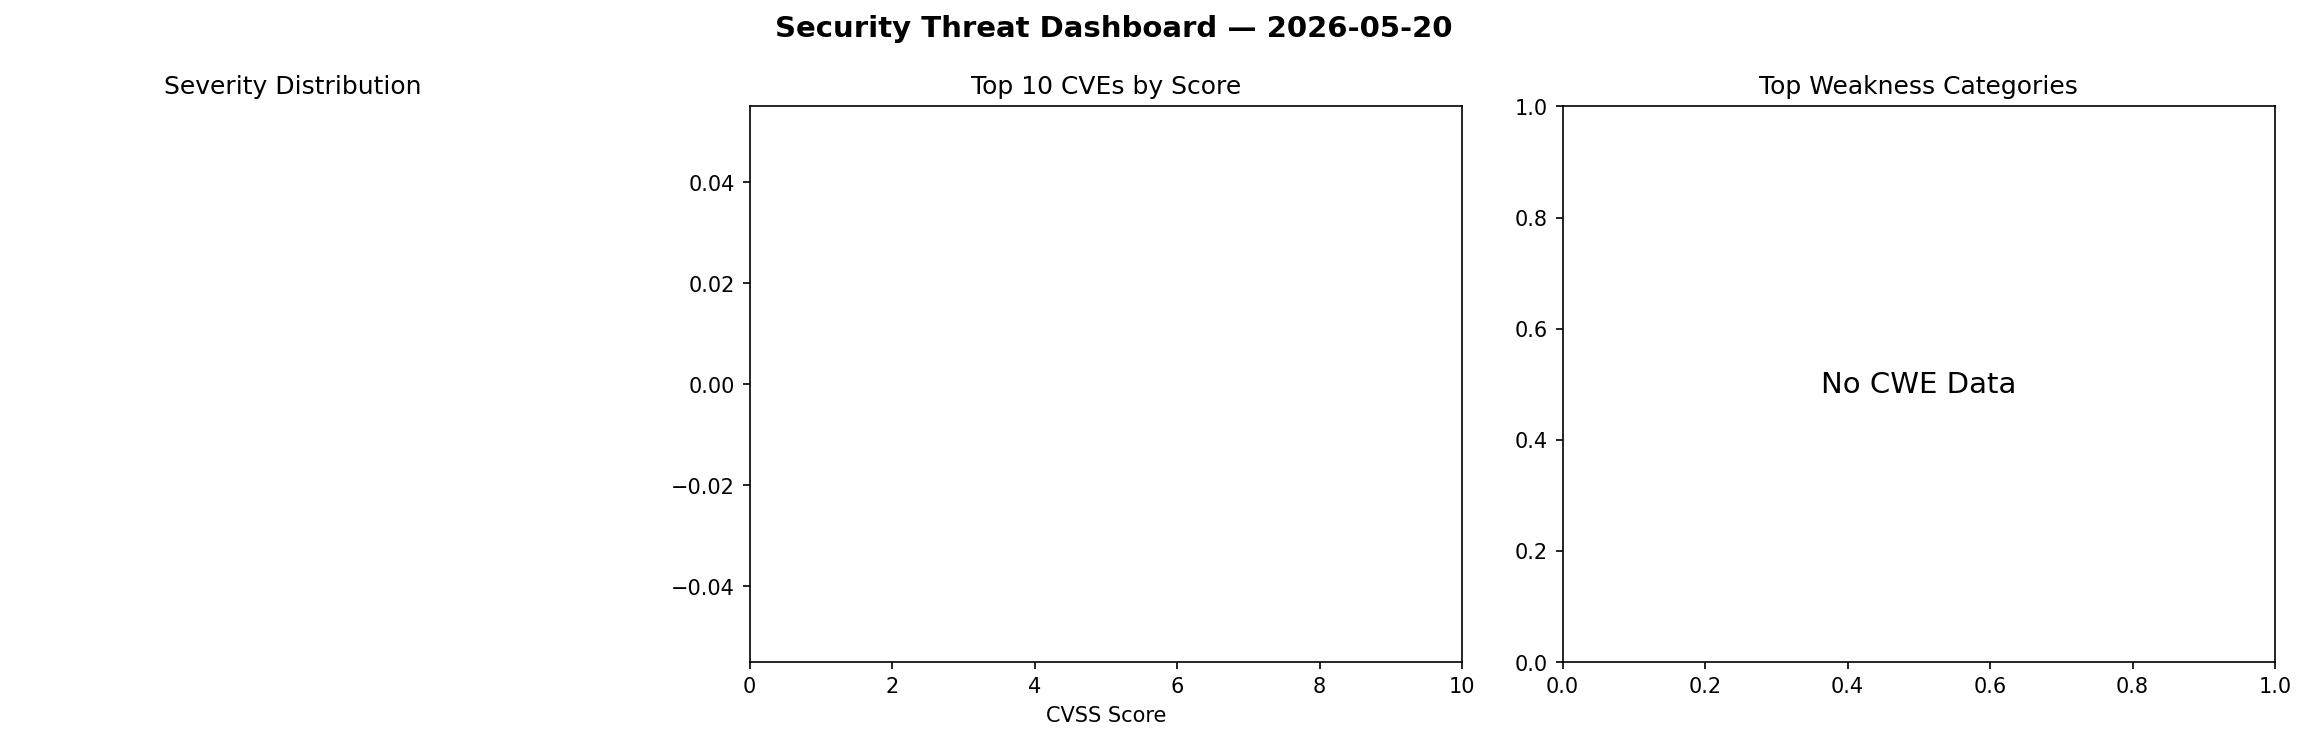
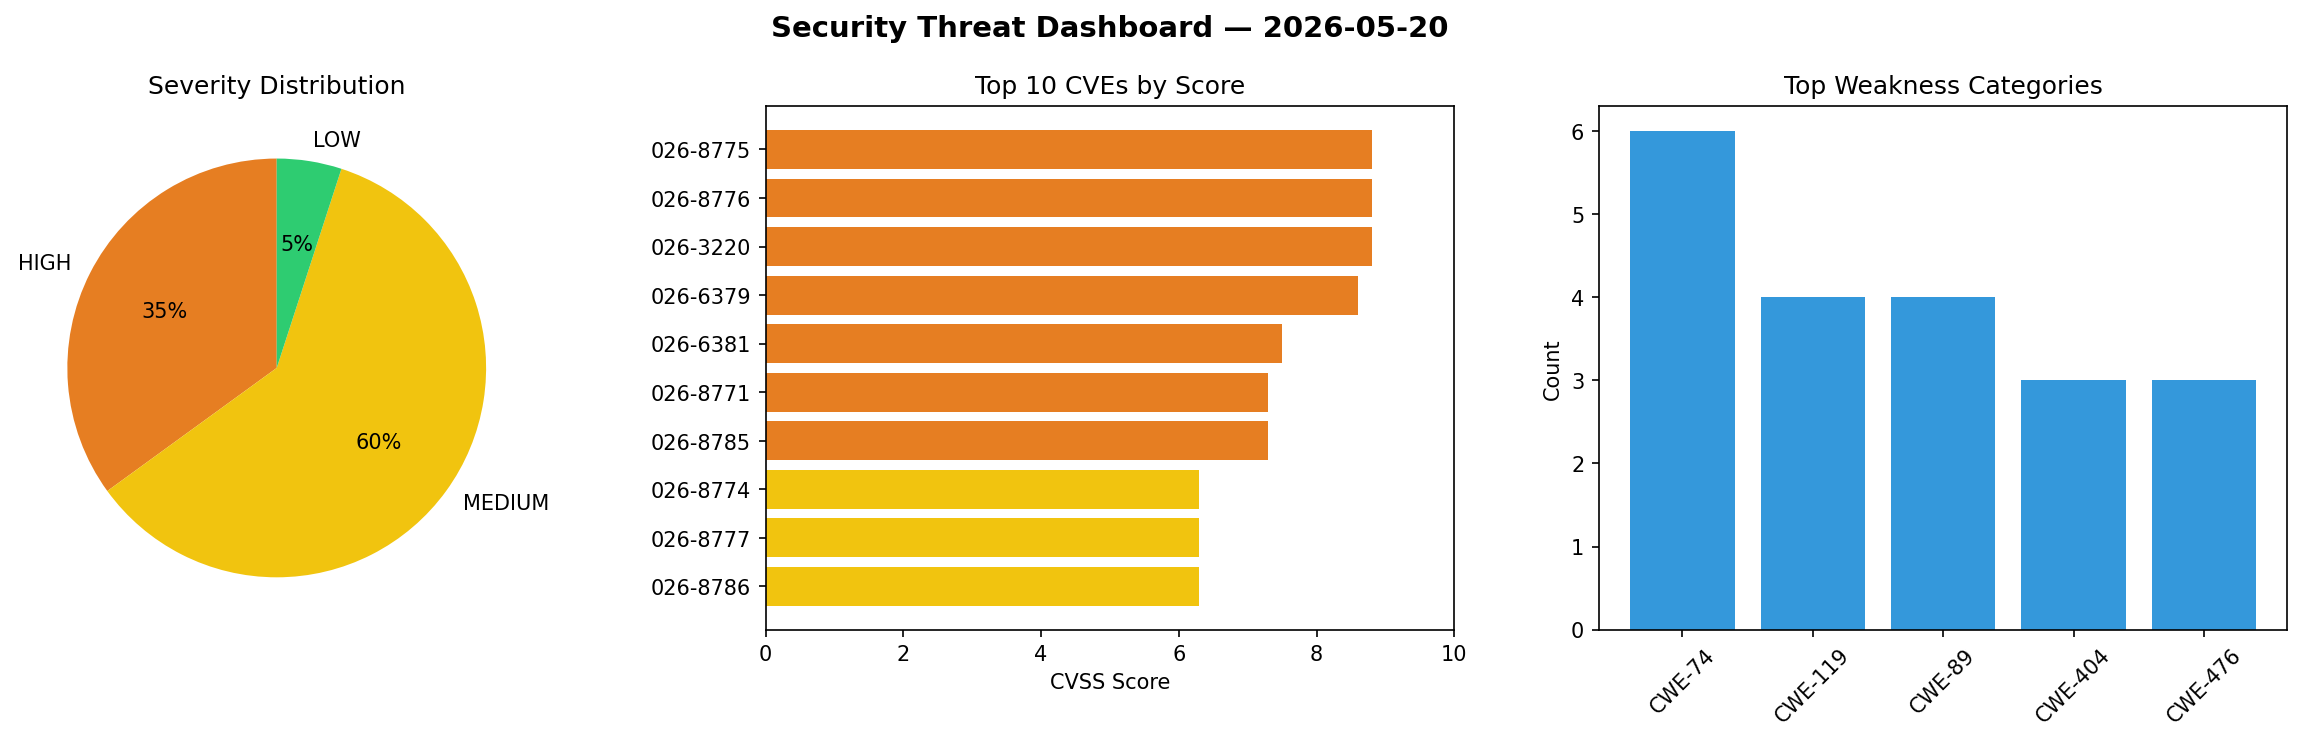
daily-experiments: security scan 2026-05-20T22:07

diff --git a/logs/2026-05-20.md b/logs/2026-05-20.md
@@ -1,6 +1,6 @@
 # Security Scan Report — 2026-05-20
 
-**Scan ID:** `b793f03480` | **CVEs:** 0 | **Threat Index:** 0
+**Scan ID:** `60e76fdcd3` | **CVEs:** 20 | **Threat Index:** 293.4
 
 ![Dashboard](2026-05-20_dashboard.png)
 
@@ -10,18 +10,46 @@
 
 | Metric | Value |
 |--------|-------|
-| Threat Index | 0 |
+| Threat Index | 293.4 |
 | Critical CVEs | 0 |
+| HIGH | 7 |
+| MEDIUM | 12 |
+| LOW | 1 |
 
 ## Delta vs Yesterday
 
 | Metric | Today | Yesterday | Change |
 |--------|-------|-----------|--------|
-| total_cves | 0 | 20 | 📉 -100.0% |
-| threat_index | 0 | 237.7 | 📉 -100.0% |
+| total_cves | 20 | 20 | ➡️ 0.0% |
+| threat_index | 293.4 | 237.7 | 📈 23.4% |
 | critical_count | 0 | 0 | ➡️ 0% |
+
+## Top Weakness Categories
+
+| CWE | Count |
+|-----|-------|
+| CWE-74 | 6 |
+| CWE-119 | 4 |
+| CWE-89 | 4 |
+| CWE-404 | 3 |
+| CWE-476 | 3 |
 
 ## CVE Details
 
 | CVE ID | Score | Severity | Description |
 |--------|-------|----------|-------------|
+| CVE-2026-8775 | 8.8 | HIGH | A flaw has been found in Edimax BR-6428NS 1.10. This affects the function formL2... |
+| CVE-2026-8776 | 8.8 | HIGH | A vulnerability has been found in Edimax BR-6428NS 1.10. This vulnerability affe... |
+| CVE-2026-3220 | 8.8 | HIGH | The Autoptimize WordPress plugin before 3.1.15, Clearfy Cache  WordPress plugin ... |
+| CVE-2026-6379 | 8.6 | HIGH | The WP Photo Album Plus WordPress plugin before 9.1.11.001 does not properly san... |
+| CVE-2026-6381 | 7.5 | HIGH | The WP Maps  WordPress plugin before 4.9.3 does not properly sanitize a paramete... |
+| CVE-2026-8771 | 7.3 | HIGH | A security flaw has been discovered in linlinjava litemall up to 1.8.0. This imp... |
+| CVE-2026-8785 | 7.3 | HIGH | A flaw has been found in projectworlds hospital-management-system-in-php 1.0. Af... |
+| CVE-2026-8774 | 6.3 | MEDIUM | A vulnerability was detected in Edimax BR-6228NC 1.22. Affected by this issue is... |
+| CVE-2026-8777 | 6.3 | MEDIUM | A vulnerability was found in Edimax BR-6428NS 1.10. This issue affects the funct... |
+| CVE-2026-8786 | 6.3 | MEDIUM | A vulnerability has been found in Tencent WeKnora up to 0.3.6. Affected by this ... |
+| CVE-2026-1631 | 5.4 | MEDIUM | The Feeds for YouTube (YouTube video, channel, and gallery plugin) WordPress plu... |
+| CVE-2026-8772 | 4.7 | MEDIUM | A weakness has been identified in linlinjava litemall up to 1.8.0. Affected is a... |
+| CVE-2026-8773 | 4.7 | MEDIUM | A security vulnerability has been detected in linlinjava litemall up to 1.8.0. A... |
+| CVE-2026-8779 | 4.3 | MEDIUM | A vulnerability was determined in omec-project amf up to 2.1.3-dev. Impacted is ... |
+| CVE-2026-8780 | 4.3 | MEDIUM | A vulnerability was identified in omec-project amf up to 2.1.3-dev. The affected... |